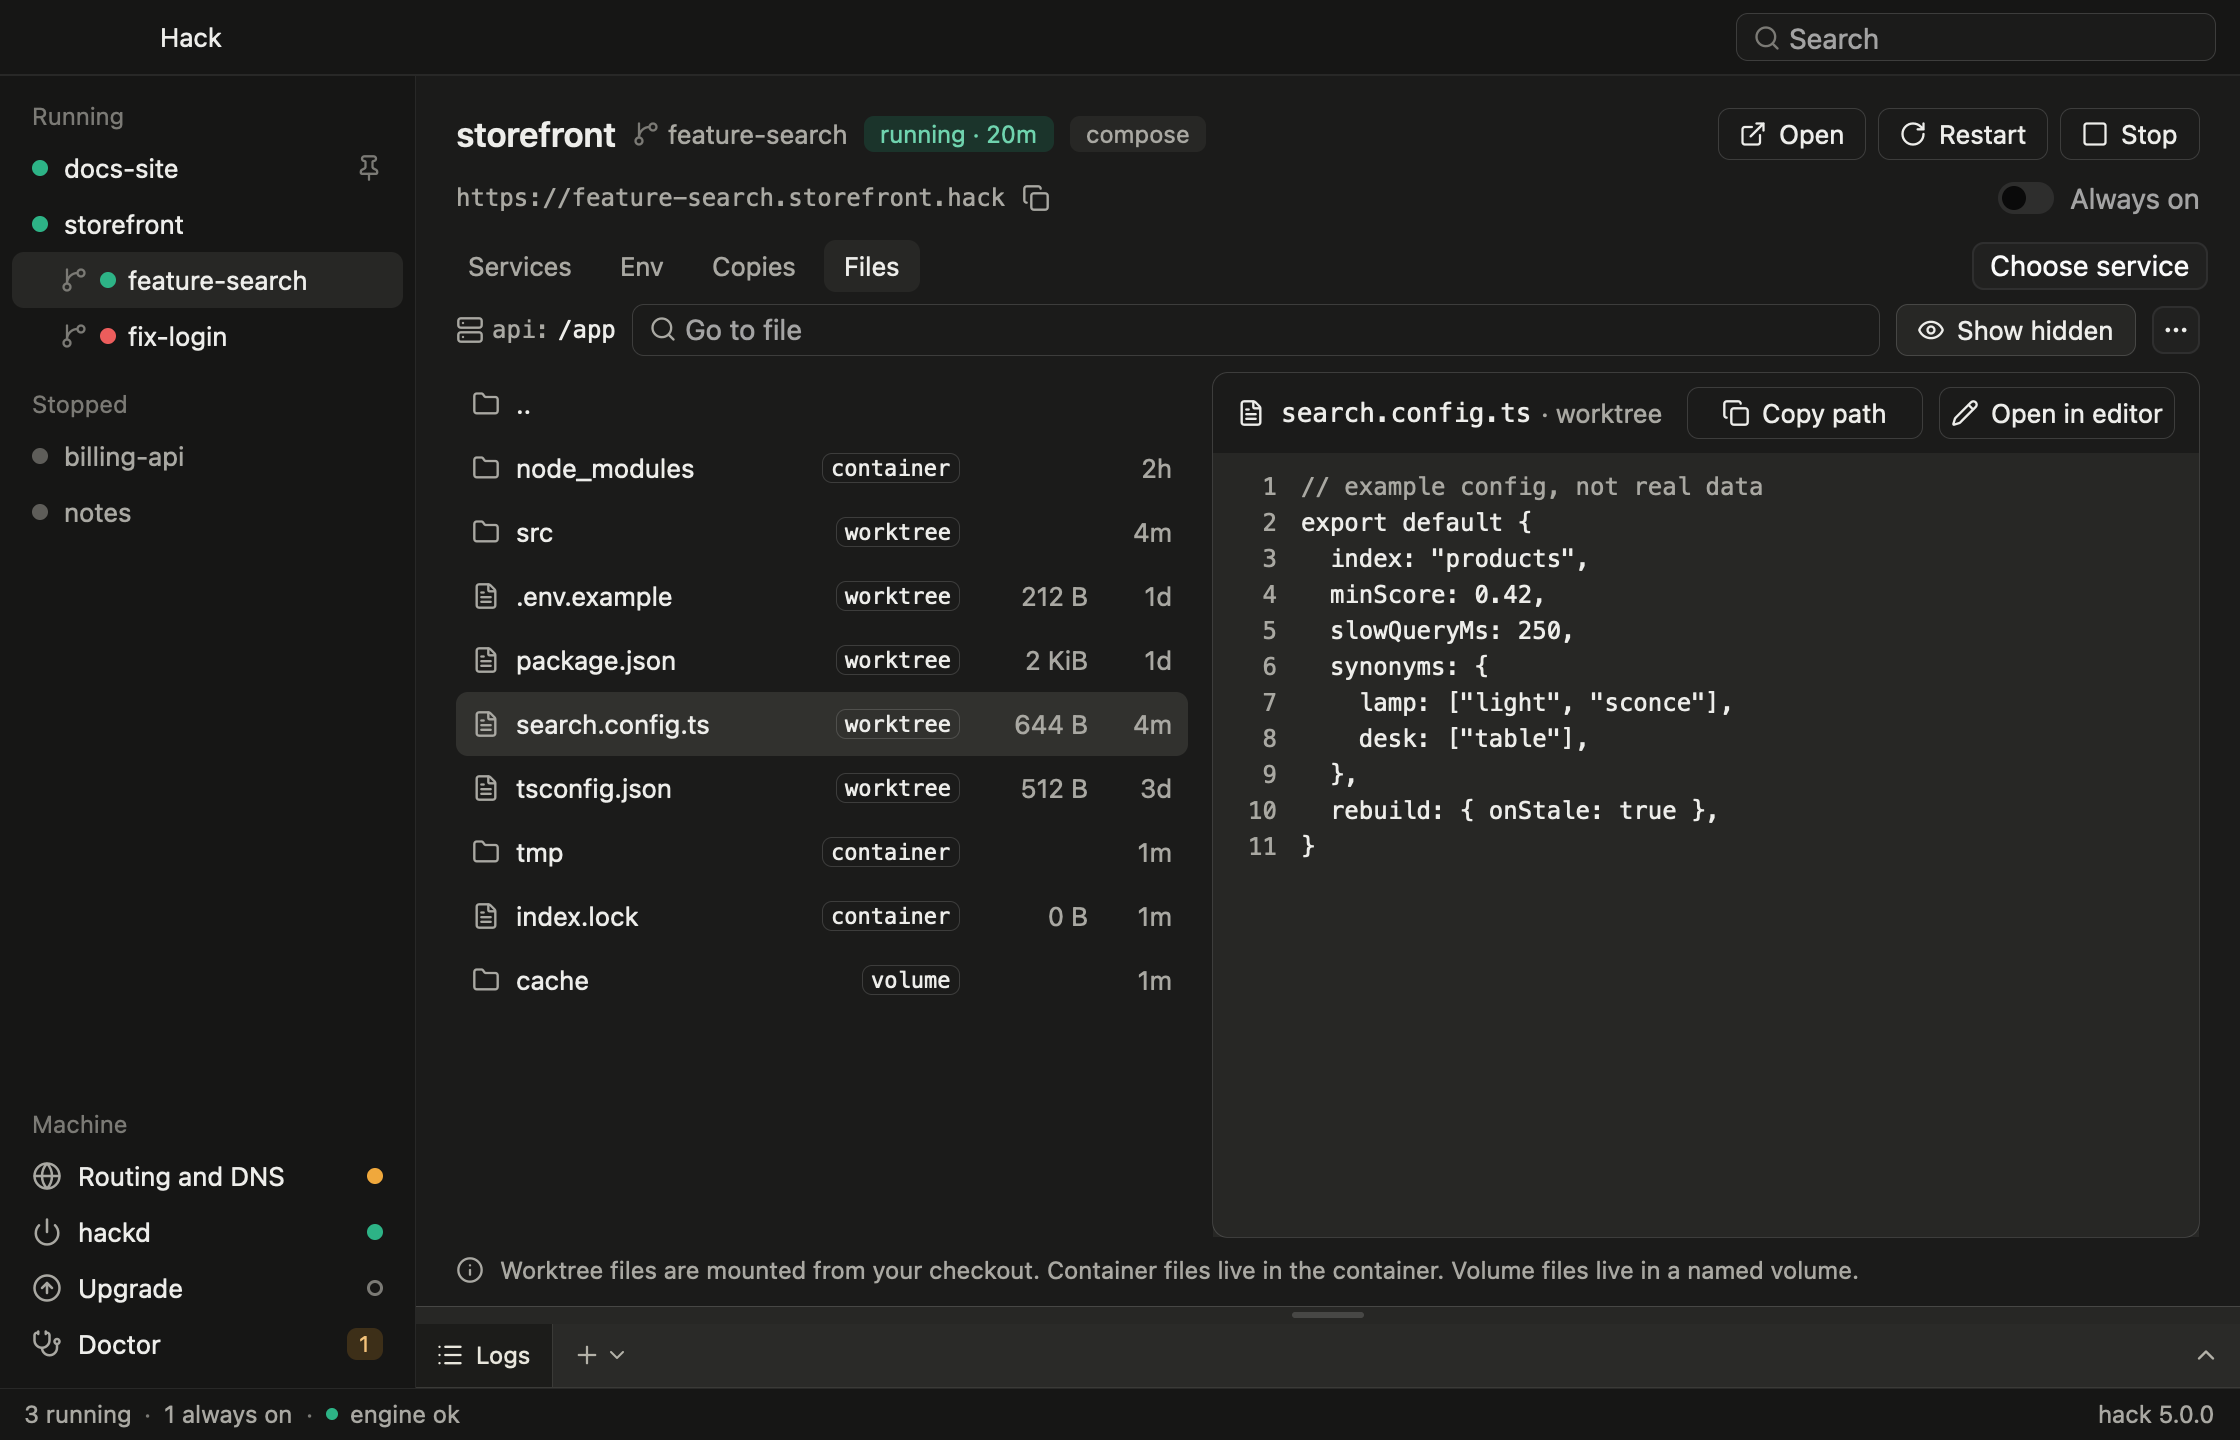
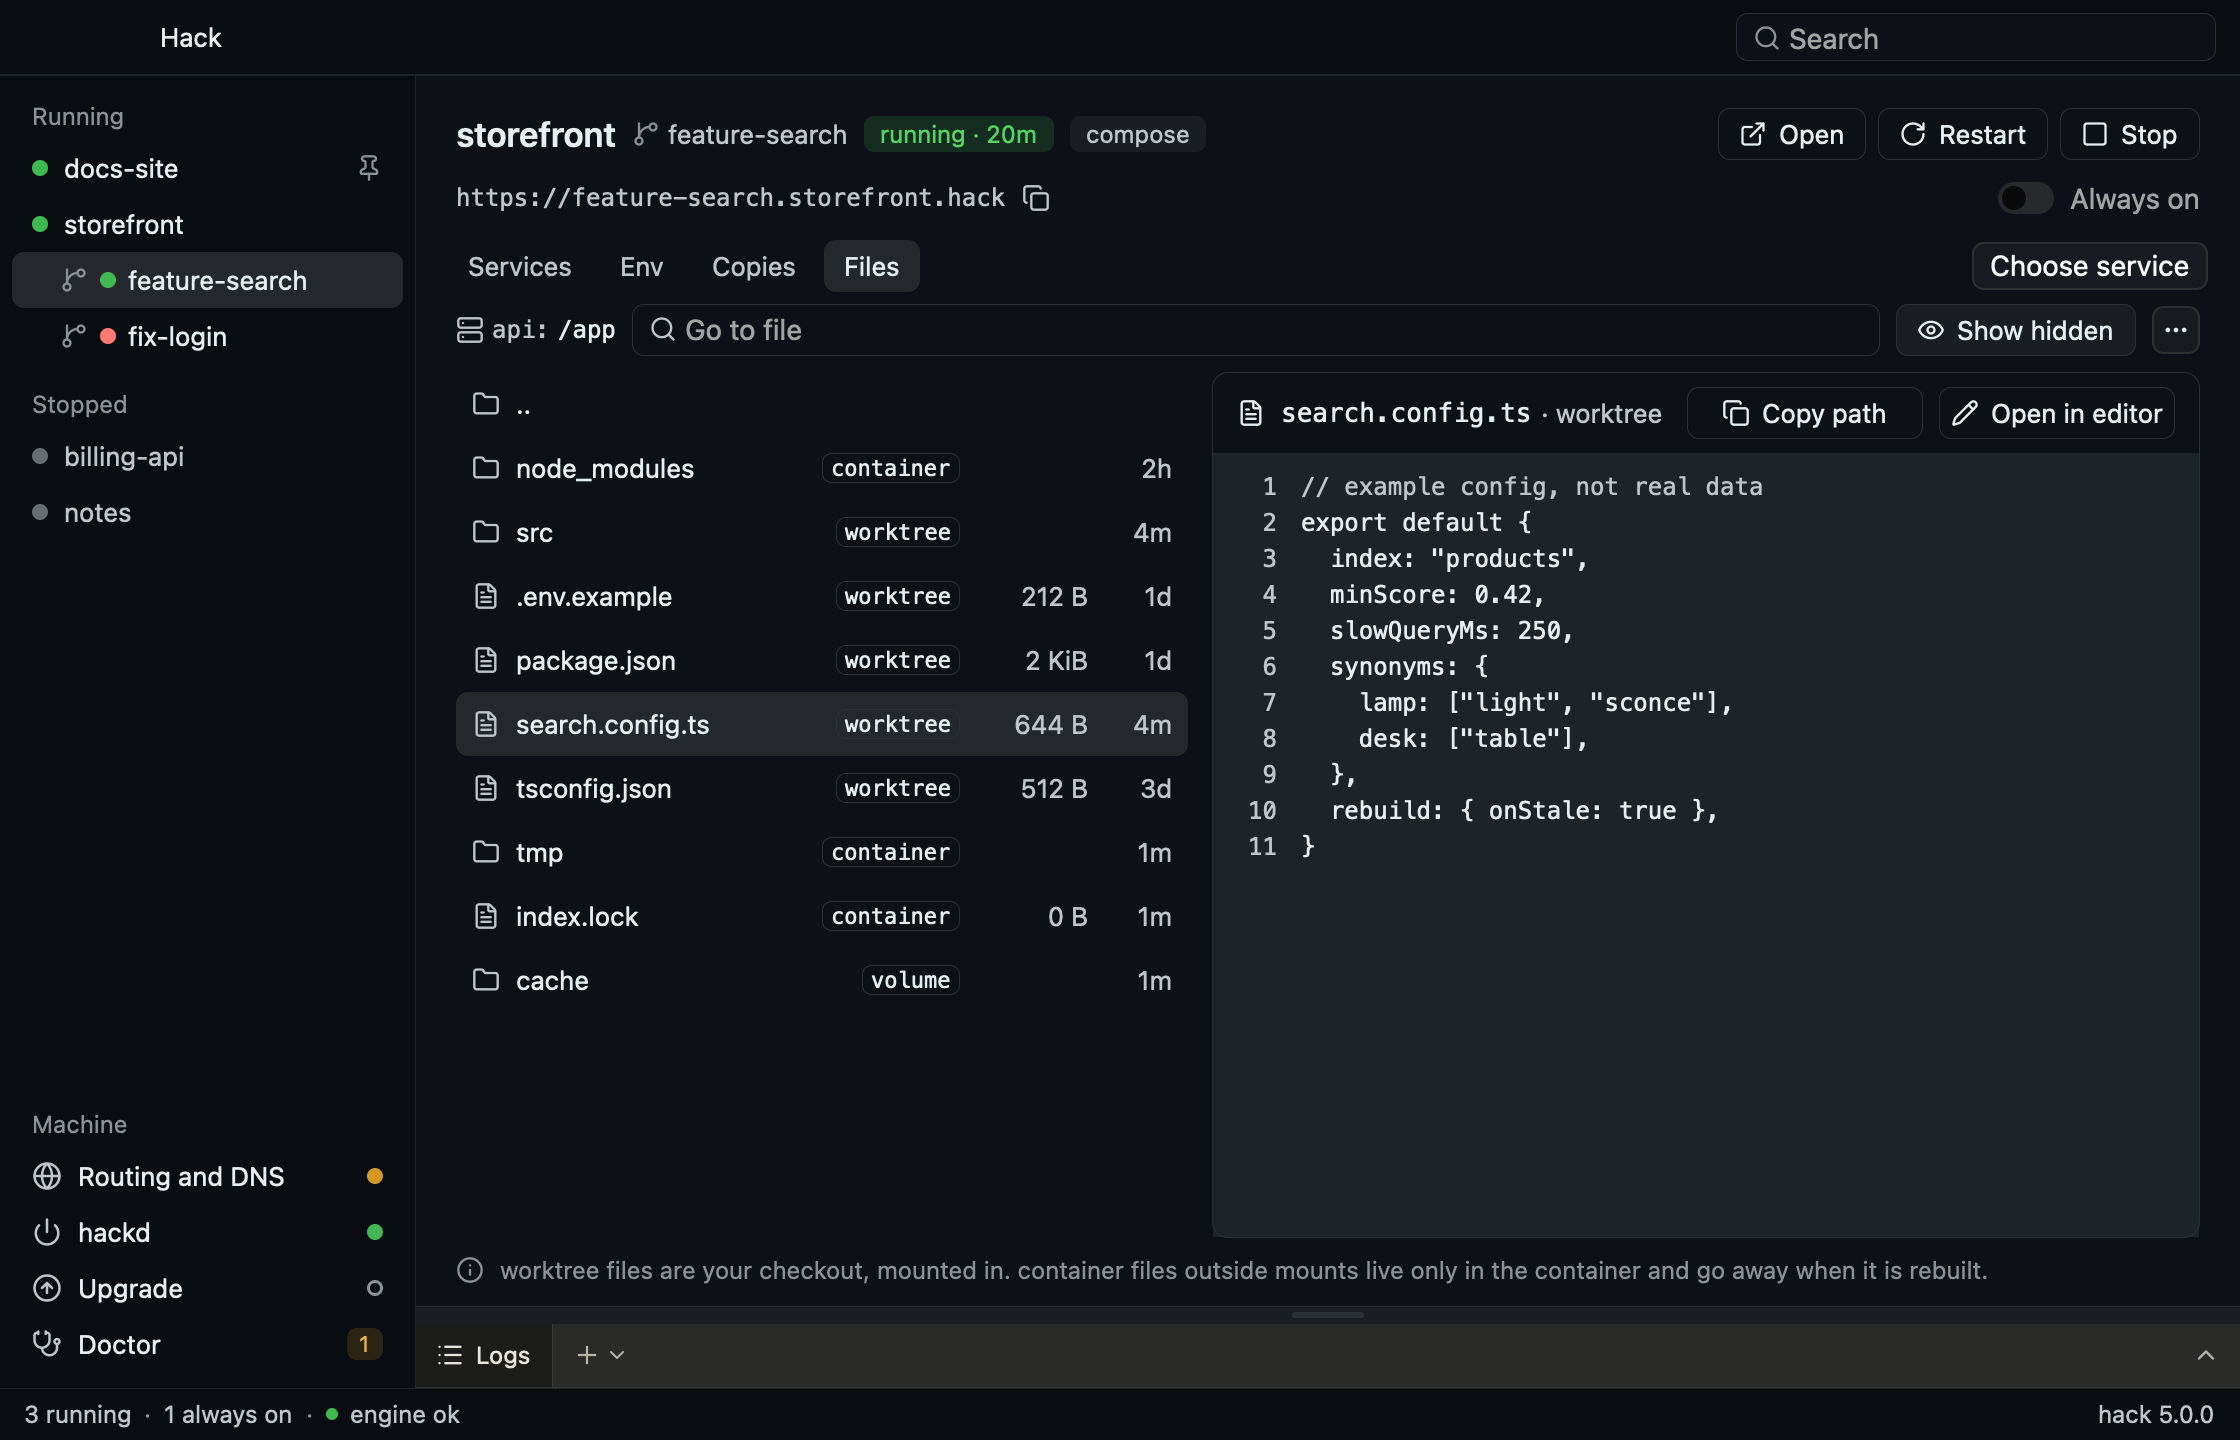
fix(desktop): polish the service Files browser

diff --git a/apps/desktop/ui/src/tokens.rs b/apps/desktop/ui/src/tokens.rs
@@ -103,10 +103,14 @@ pub struct Palette {
     pub surface: Hsla,
     /// Sidebar, title bar and status bar.
     pub chrome: Hsla,
-    /// Hover, selected row, selected tab, log block, neutral pills.
+    /// Hover, log block, neutral pills.
     pub surface_1: Hsla,
-    /// Pressed or selected-and-hovered.
+    /// Pressed.
     pub surface_2: Hsla,
+    /// Selected navigation and file rows.
+    pub selection: Hsla,
+    /// Read-only file preview body.
+    pub preview_surface: Hsla,
     pub border: Hsla,
     pub border_strong: Hsla,
     pub text_primary: Hsla,
@@ -155,6 +159,8 @@ impl Palette {
             chrome: c(rgb(0xF7F7F5)),
             surface_1: c(rgb(0xEFEFEC)),
             surface_2: c(rgb(0xE6E6E2)),
+            selection: c(rgb(0xEFEFEC)),
+            preview_surface: c(rgb(0xEFEFEC)),
             border: c(rgba(0x0000_0017)),
             border_strong: c(rgba(0x0000_002E)),
             text_primary: c(rgb(0x1C1C1A)),
@@ -198,48 +204,56 @@ impl Palette {
 
     #[must_use]
     pub fn dark() -> Self {
+        // Merino Dark, from the HACK-2595 desktop frames.
+        let surface_1 = c(rgb(0x1A1E24));
+        let selection = c(rgb(0x24272B));
+        let text_primary = c(rgb(0xE6EDF3));
+        let text_secondary = c(rgb(0xBFC5CB));
+        let text_muted = c(rgb(0x8B9197));
         Self {
             mode: Mode::Dark,
-            surface: c(rgb(0x1B1B1A)),
-            chrome: c(rgb(0x161615)),
-            surface_1: c(rgb(0x272725)),
-            surface_2: c(rgb(0x31312E)),
-            border: c(rgba(0xFFFF_FF14)),
-            border_strong: c(rgba(0xFFFF_FF26)),
-            text_primary: c(rgb(0xEDEDEA)),
-            text_secondary: c(rgb(0xA9A8A2)),
-            text_muted: c(rgb(0x7B7A75)),
-            accent: c(rgb(0x6EA2F5)),
+            surface: c(rgb(0x0D1117)),
+            chrome: c(rgb(0x090C10)),
+            surface_1,
+            surface_2: selection,
+            selection,
+            preview_surface: c(rgb(0x1E2329)),
+            border: c(rgb(0x1E2329)),
+            border_strong: c(rgb(0x2B3036)),
+            text_primary,
+            text_secondary,
+            text_muted,
+            accent: text_primary,
             states: States {
                 running: StateColors {
-                    dot: c(rgb(0x2DB386)),
-                    bg: c(rgba(0x1D9E_7530)),
-                    fg: c(rgb(0x6FD3AE)),
+                    dot: c(rgb(0x3FB950)),
+                    bg: c(rgb(0x152C20)),
+                    fg: c(rgb(0x56D364)),
                 },
                 busy: StateColors {
-                    dot: c(rgb(0x4C98E6)),
-                    bg: c(rgba(0x378A_DD30)),
-                    fg: c(rgb(0x8DBDF0)),
+                    dot: c(rgb(0x58A6FF)),
+                    bg: c(rgba(0x58A6_FF30)),
+                    fg: c(rgb(0x79C0FF)),
                 },
                 degraded: StateColors {
-                    dot: c(rgb(0xF0A83C)),
-                    bg: c(rgba(0xEF9F_272E)),
-                    fg: c(rgb(0xF3C27A)),
+                    dot: c(rgb(0xD29922)),
+                    bg: c(rgba(0xD299_222E)),
+                    fg: c(rgb(0xE3B341)),
                 },
                 failed: StateColors {
-                    dot: c(rgb(0xEC5D5C)),
-                    bg: c(rgba(0xE24B_4A30)),
-                    fg: c(rgb(0xF29A99)),
+                    dot: c(rgb(0xFF7B72)),
+                    bg: c(rgb(0x2F2024)),
+                    fg: c(rgb(0xFFA198)),
                 },
                 stopped: StateColors {
-                    dot: c(rgb(0x5E5D59)),
-                    bg: c(rgb(0x272725)),
-                    fg: c(rgb(0xA9A8A2)),
+                    dot: c(rgb(0x686D73)),
+                    bg: surface_1,
+                    fg: text_secondary,
                 },
                 unknown: StateColors {
-                    dot: c(rgb(0x7B7A75)),
-                    bg: c(rgb(0x272725)),
-                    fg: c(rgb(0xA9A8A2)),
+                    dot: text_muted,
+                    bg: surface_1,
+                    fg: text_secondary,
                 },
             },
         }

diff --git a/apps/desktop/app/src/files_view.rs b/apps/desktop/app/src/files_view.rs
@@ -553,7 +553,7 @@ impl FilesPane {
                 .flex_1()
                 .min_h_0()
                 .overflow_scroll()
-                .bg(ui.p.surface_1)
+                .bg(ui.p.preview_surface)
                 .child(text),
         )
     }
@@ -575,6 +575,10 @@ impl Render for FilesPane {
             .notice
             .as_deref()
             .or_else(|| (self.reading == Some(Read::List)).then_some("Reading directory…"));
+        let footnote_color = match ui.p.mode {
+            Mode::Light => ui.p.text_secondary,
+            Mode::Dark => ui.p.text_muted,
+        };
         div()
             .flex().flex_col().flex_1().min_h_0().min_w_0().gap(space::S4).pb(space::S5)
             .type_step(text::BODY).text_color(ui.p.text_primary)
@@ -585,9 +589,9 @@ impl Render for FilesPane {
                     .overflow_y_scroll().child(self.rows(&ui, cx)))
                 .child(self.preview(&ui, cx)))
             .child(div().flex().items_center().gap(space::S4).type_step(text::SMALL)
-                .text_color(ui.p.text_secondary)
-                .child(icon(Glyph::Info, size::ICON, ui.p.text_secondary))
-                .child("Worktree files are mounted from your checkout. Container files live in the container. Volume files live in a named volume."))
+                .text_color(footnote_color)
+                .child(icon(Glyph::Info, size::ICON, footnote_color).flex_none())
+                .child("worktree files are your checkout, mounted in. container files outside mounts live only in the container and go away when it is rebuilt."))
     }
 }
 
@@ -698,18 +702,23 @@ fn file_row(
     ui: &Ui,
 ) -> Stateful<Div> {
     let p = ui.p;
+    let selection = match p.mode {
+        Mode::Light => p.surface_2,
+        Mode::Dark => p.selection,
+    };
     div()
         .id(id)
         .h(size::TABLE_ROW)
+        .flex_none()
         .flex()
         .items_center()
         .gap(space::S4)
         .px(space::S4)
         .rounded(radius::CONTROL)
         .cursor_pointer()
-        .hover(move |row| row.bg(p.surface_1))
+        .when(!selected, |row| row.hover(move |row| row.bg(p.surface_1)))
         .when(selected, |row| {
-            row.bg(p.surface_2).type_step(text::BODY_STRONG)
+            row.bg(selection).type_step(text::BODY_STRONG)
         })
         .child(icon(glyph, size::ICON, p.text_secondary))
         .child(div().flex_1().min_w_0().truncate().child(name.to_owned()))

diff --git a/apps/desktop/ui/src/components.rs b/apps/desktop/ui/src/components.rs
@@ -143,8 +143,8 @@ pub fn project_row(
         .gap(space::S4)
         .rounded(radius::CONTROL)
         .cursor_pointer()
-        .when(selected, |d| d.bg(p.surface_1))
-        .hover(move |d| d.bg(p.surface_1))
+        .when(selected, |d| d.bg(p.selection))
+        .when(!selected, |d| d.hover(move |d| d.bg(p.surface_1)))
         .child(dot(status, ui))
         .child(
             div()
@@ -190,8 +190,8 @@ pub fn branch_row(
         .gap(space::S3)
         .rounded(radius::CONTROL)
         .cursor_pointer()
-        .when(selected, |d| d.bg(p.surface_1))
-        .hover(move |d| d.bg(p.surface_1))
+        .when(selected, |d| d.bg(p.selection))
+        .when(!selected, |d| d.hover(move |d| d.bg(p.surface_1)))
         .child(icon(Glyph::Branch, size::ICON, p.text_muted))
         .child(dot(status, ui))
         .child(
@@ -361,7 +361,7 @@ pub fn pill_tab(
         } else {
             p.text_secondary
         })
-        .when(sel, |d| d.bg(p.surface_1))
+        .when(sel, |d| d.bg(p.selection))
         .when(!sel, |d| d.hover(move |d| d.text_color(p.text_primary)))
         .child(label)
 }

diff --git a/apps/desktop/DESIGN-V1.md b/apps/desktop/DESIGN-V1.md
@@ -89,29 +89,33 @@ Detail content is inset 20 left and right; the sidebar list 6.
 
 ## Colour
 
+The dark desktop palette uses Merino Dark from the HACK-2595 frames.
+
 | Token | Light | Dark | Used for |
 |---|---|---|---|
-| `surface` | `#FFFFFF` | `#1B1B1A` | Detail pane |
-| `chrome` | `#F7F7F5` | `#161615` | Title bar, sidebar, status bar |
-| `surface_1` | `#EFEFEC` | `#272725` | Hover, selected row, selected tab, panel handle, neutral pill |
-| `surface_2` | `#E6E6E2` | `#31312E` | Pressed |
-| `border` | black 9% | white 8% | Hairlines |
-| `border_strong` | black 18% | white 15% | Button and field outlines |
-| `text_primary` | `#1C1C1A` | `#EDEDEA` | |
-| `text_secondary` | `#5C5B57` | `#A9A8A2` | URL, stopped names, inactive tabs |
-| `text_muted` | `#8B8A85` | `#7B7A75` | Captions, table header, timestamps |
-| `accent` | `#2F6FDB` | `#6EA2F5` | Switch on, focus ring |
+| `surface` | `#FFFFFF` | `#0D1117` | Detail pane |
+| `chrome` | `#F7F7F5` | `#090C10` | Title bar, sidebar, status bar |
+| `surface_1` | `#EFEFEC` | `#1A1E24` | Hover, panel handle, neutral pill |
+| `surface_2` | `#E6E6E2` | `#24272B` | Pressed, selected file row in light mode |
+| `selection` | `#EFEFEC` | `#24272B` | Selected navigation, selected file row in dark mode |
+| `preview_surface` | `#EFEFEC` | `#1E2329` | Read-only file preview body |
+| `border` | black 9% | `#1E2329` | Hairlines |
+| `border_strong` | black 18% | `#2B3036` | Button and field outlines |
+| `text_primary` | `#1C1C1A` | `#E6EDF3` | |
+| `text_secondary` | `#5C5B57` | `#BFC5CB` | URL, stopped names, inactive tabs |
+| `text_muted` | `#8B8A85` | `#8B9197` | Captions, table header, timestamps |
+| `accent` | `#2F6FDB` | `#E6EDF3` | Switch on, focus ring |
 
 State colours (dot / pill background / pill text):
 
 | State | Light | Dark | Shown as |
 |---|---|---|---|
-| Running | `#1D9E75` / `#E2F3EC` / `#146B50` | `#2DB386` / 19% / `#6FD3AE` | solid dot |
-| Busy (starting, stopping) | `#378ADD` / `#E5EEFA` / `#235E9E` | `#4C98E6` / 19% / `#8DBDF0` | solid dot |
-| Degraded | `#EF9F27` / `#FBEFDA` / `#8A5608` | `#F0A83C` / 18% / `#F3C27A` | solid dot |
-| Failed (failed start, needs attention) | `#E24B4A` / `#FBE6E5` / `#A82E2D` | `#EC5D5C` / 19% / `#F29A99` | solid dot |
-| Stopped | `#BDBCB6` / `surface_1` / secondary | `#5E5D59` / `surface_1` / secondary | solid grey dot, name in secondary |
-| Unknown | `#9C9B95` / `surface_1` / secondary | `#7B7A75` / `surface_1` / secondary | **ring**, never a solid dot |
+| Running | `#1D9E75` / `#E2F3EC` / `#146B50` | `#3FB950` / `#152C20` / `#56D364` | solid dot |
+| Busy (starting, stopping) | `#378ADD` / `#E5EEFA` / `#235E9E` | `#58A6FF` / dot at 19% / `#79C0FF` | solid dot |
+| Degraded | `#EF9F27` / `#FBEFDA` / `#8A5608` | `#D29922` / dot at 18% / `#E3B341` | solid dot |
+| Failed (failed start, needs attention) | `#E24B4A` / `#FBE6E5` / `#A82E2D` | `#FF7B72` / `#2F2024` / `#FFA198` | solid dot |
+| Stopped | `#BDBCB6` / `surface_1` / secondary | `#686D73` / `surface_1` / secondary | solid grey dot, name in secondary |
+| Unknown | `#9C9B95` / `surface_1` / secondary | `#8B9197` / `surface_1` / secondary | **ring**, never a solid dot |
 
 Unknown is a ring so an unobserved project never reads as stopped.
 
